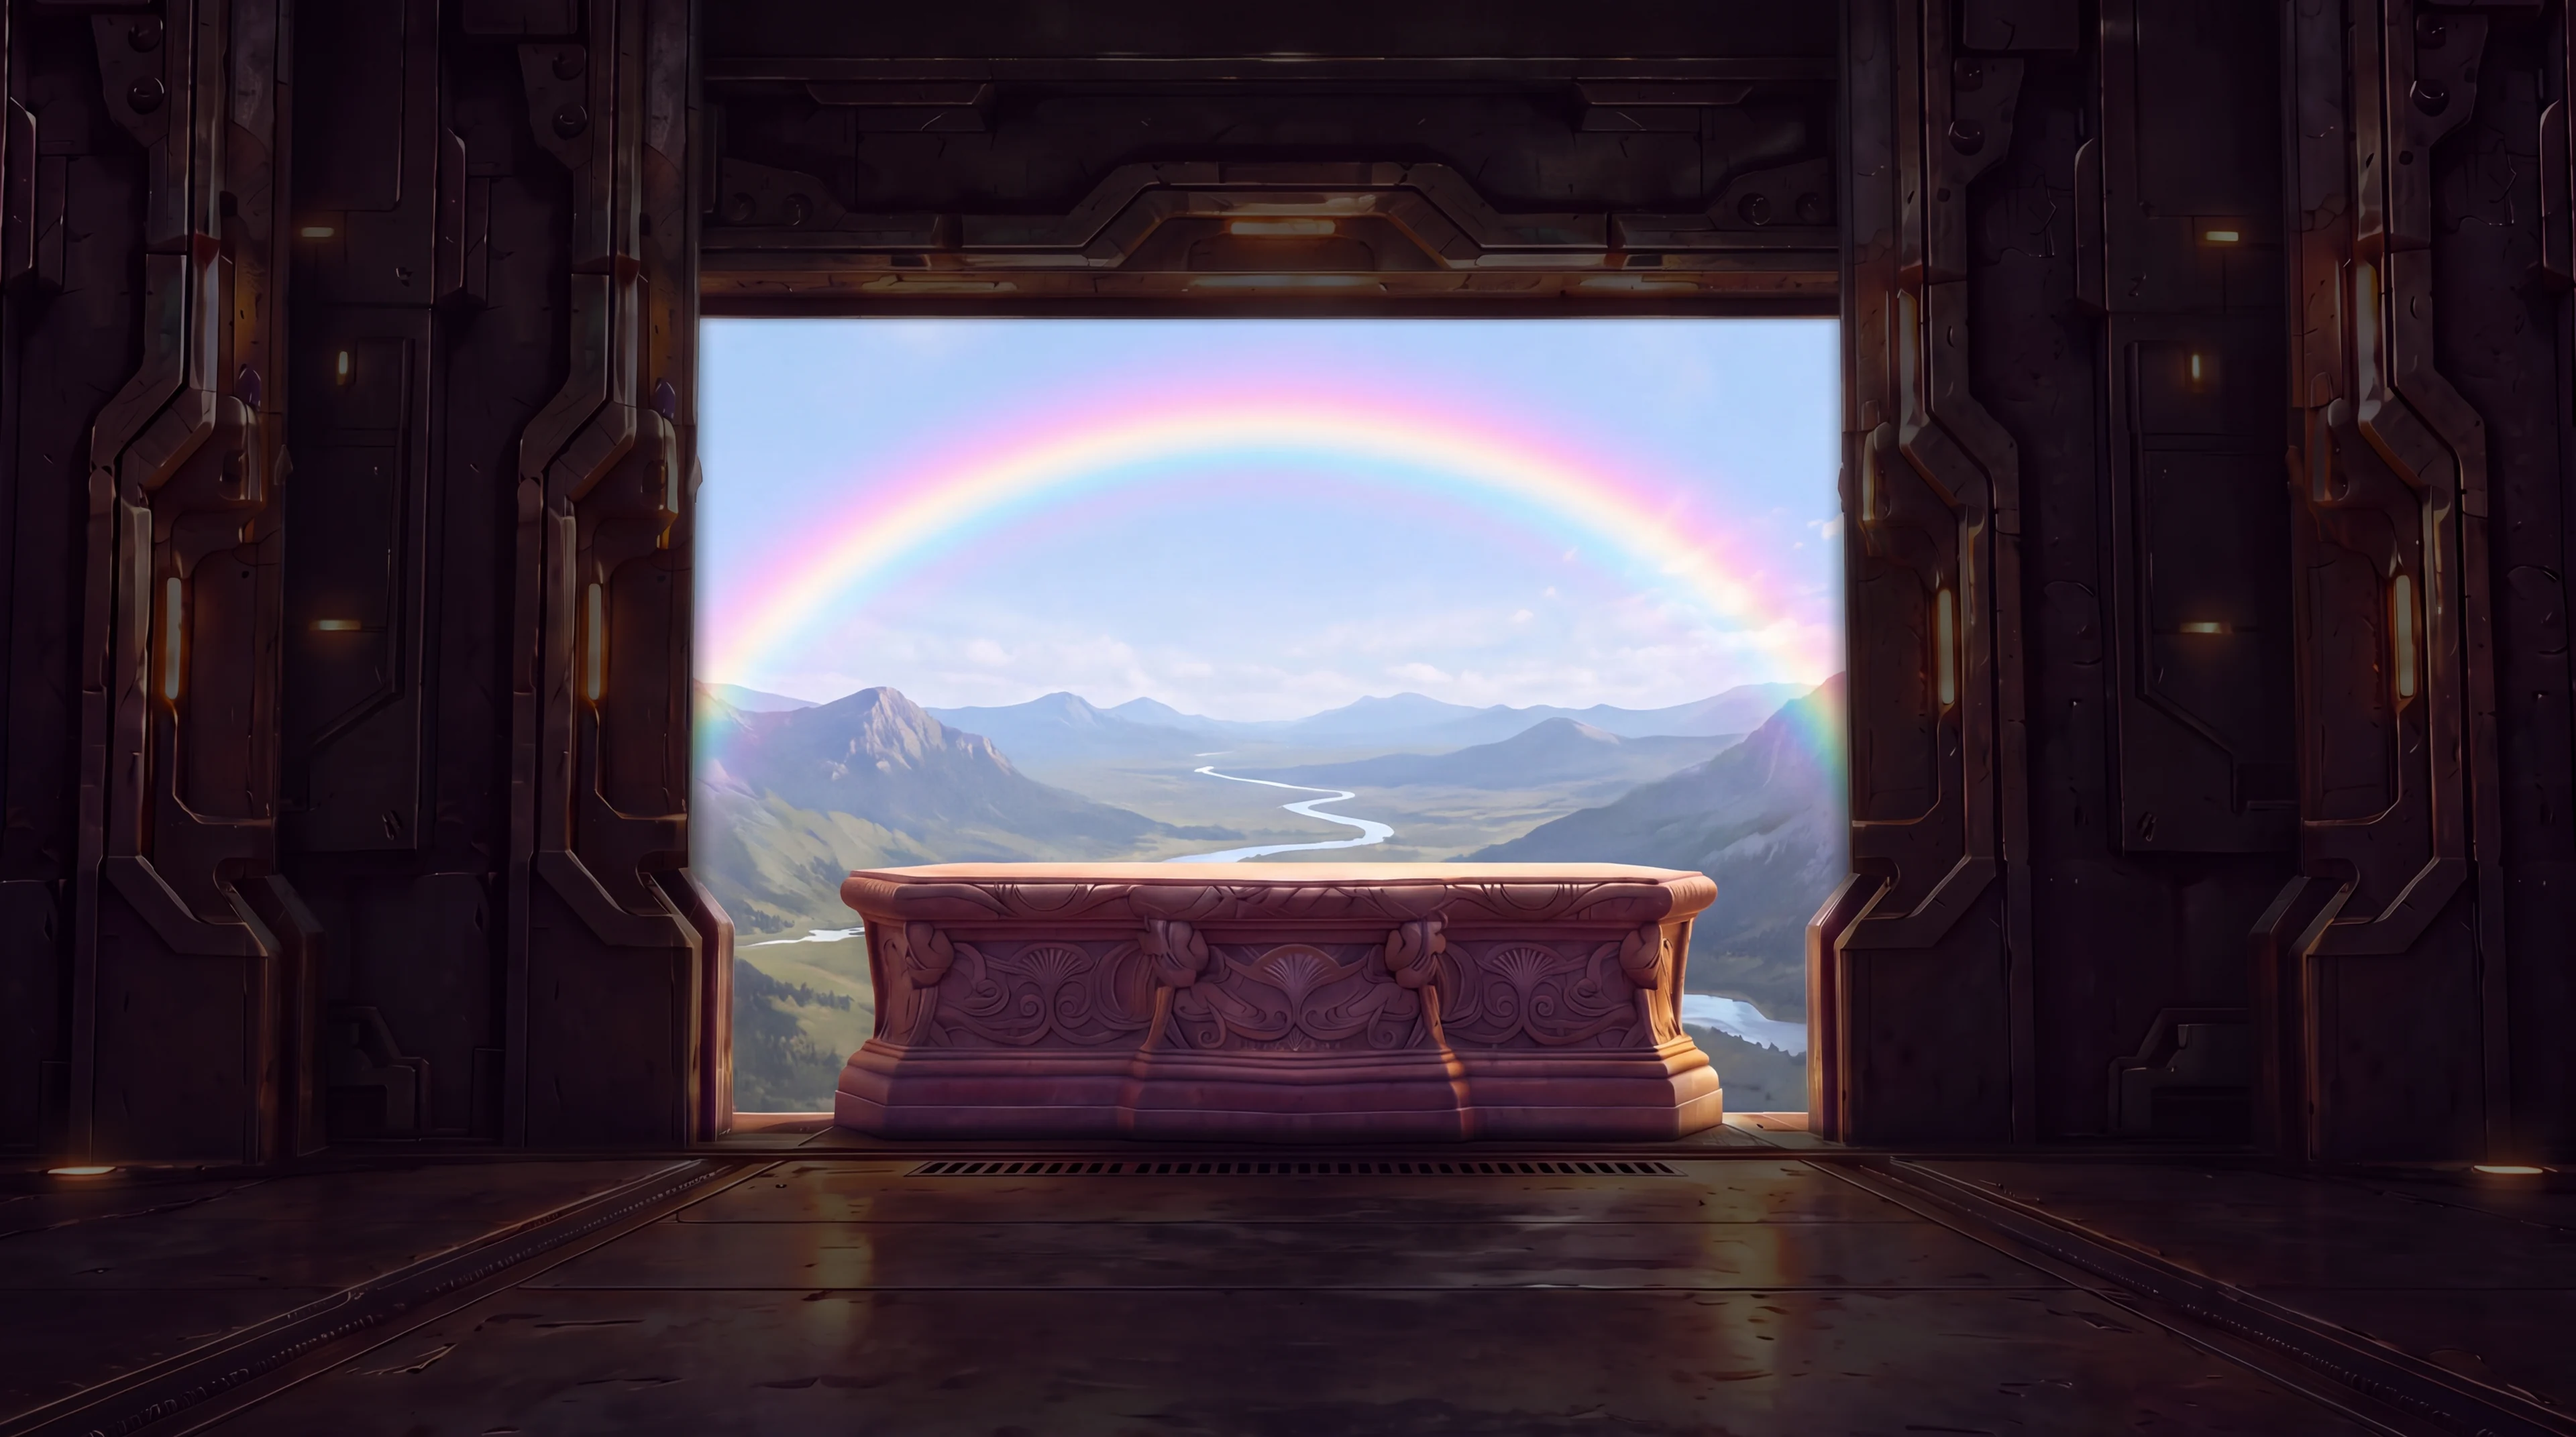
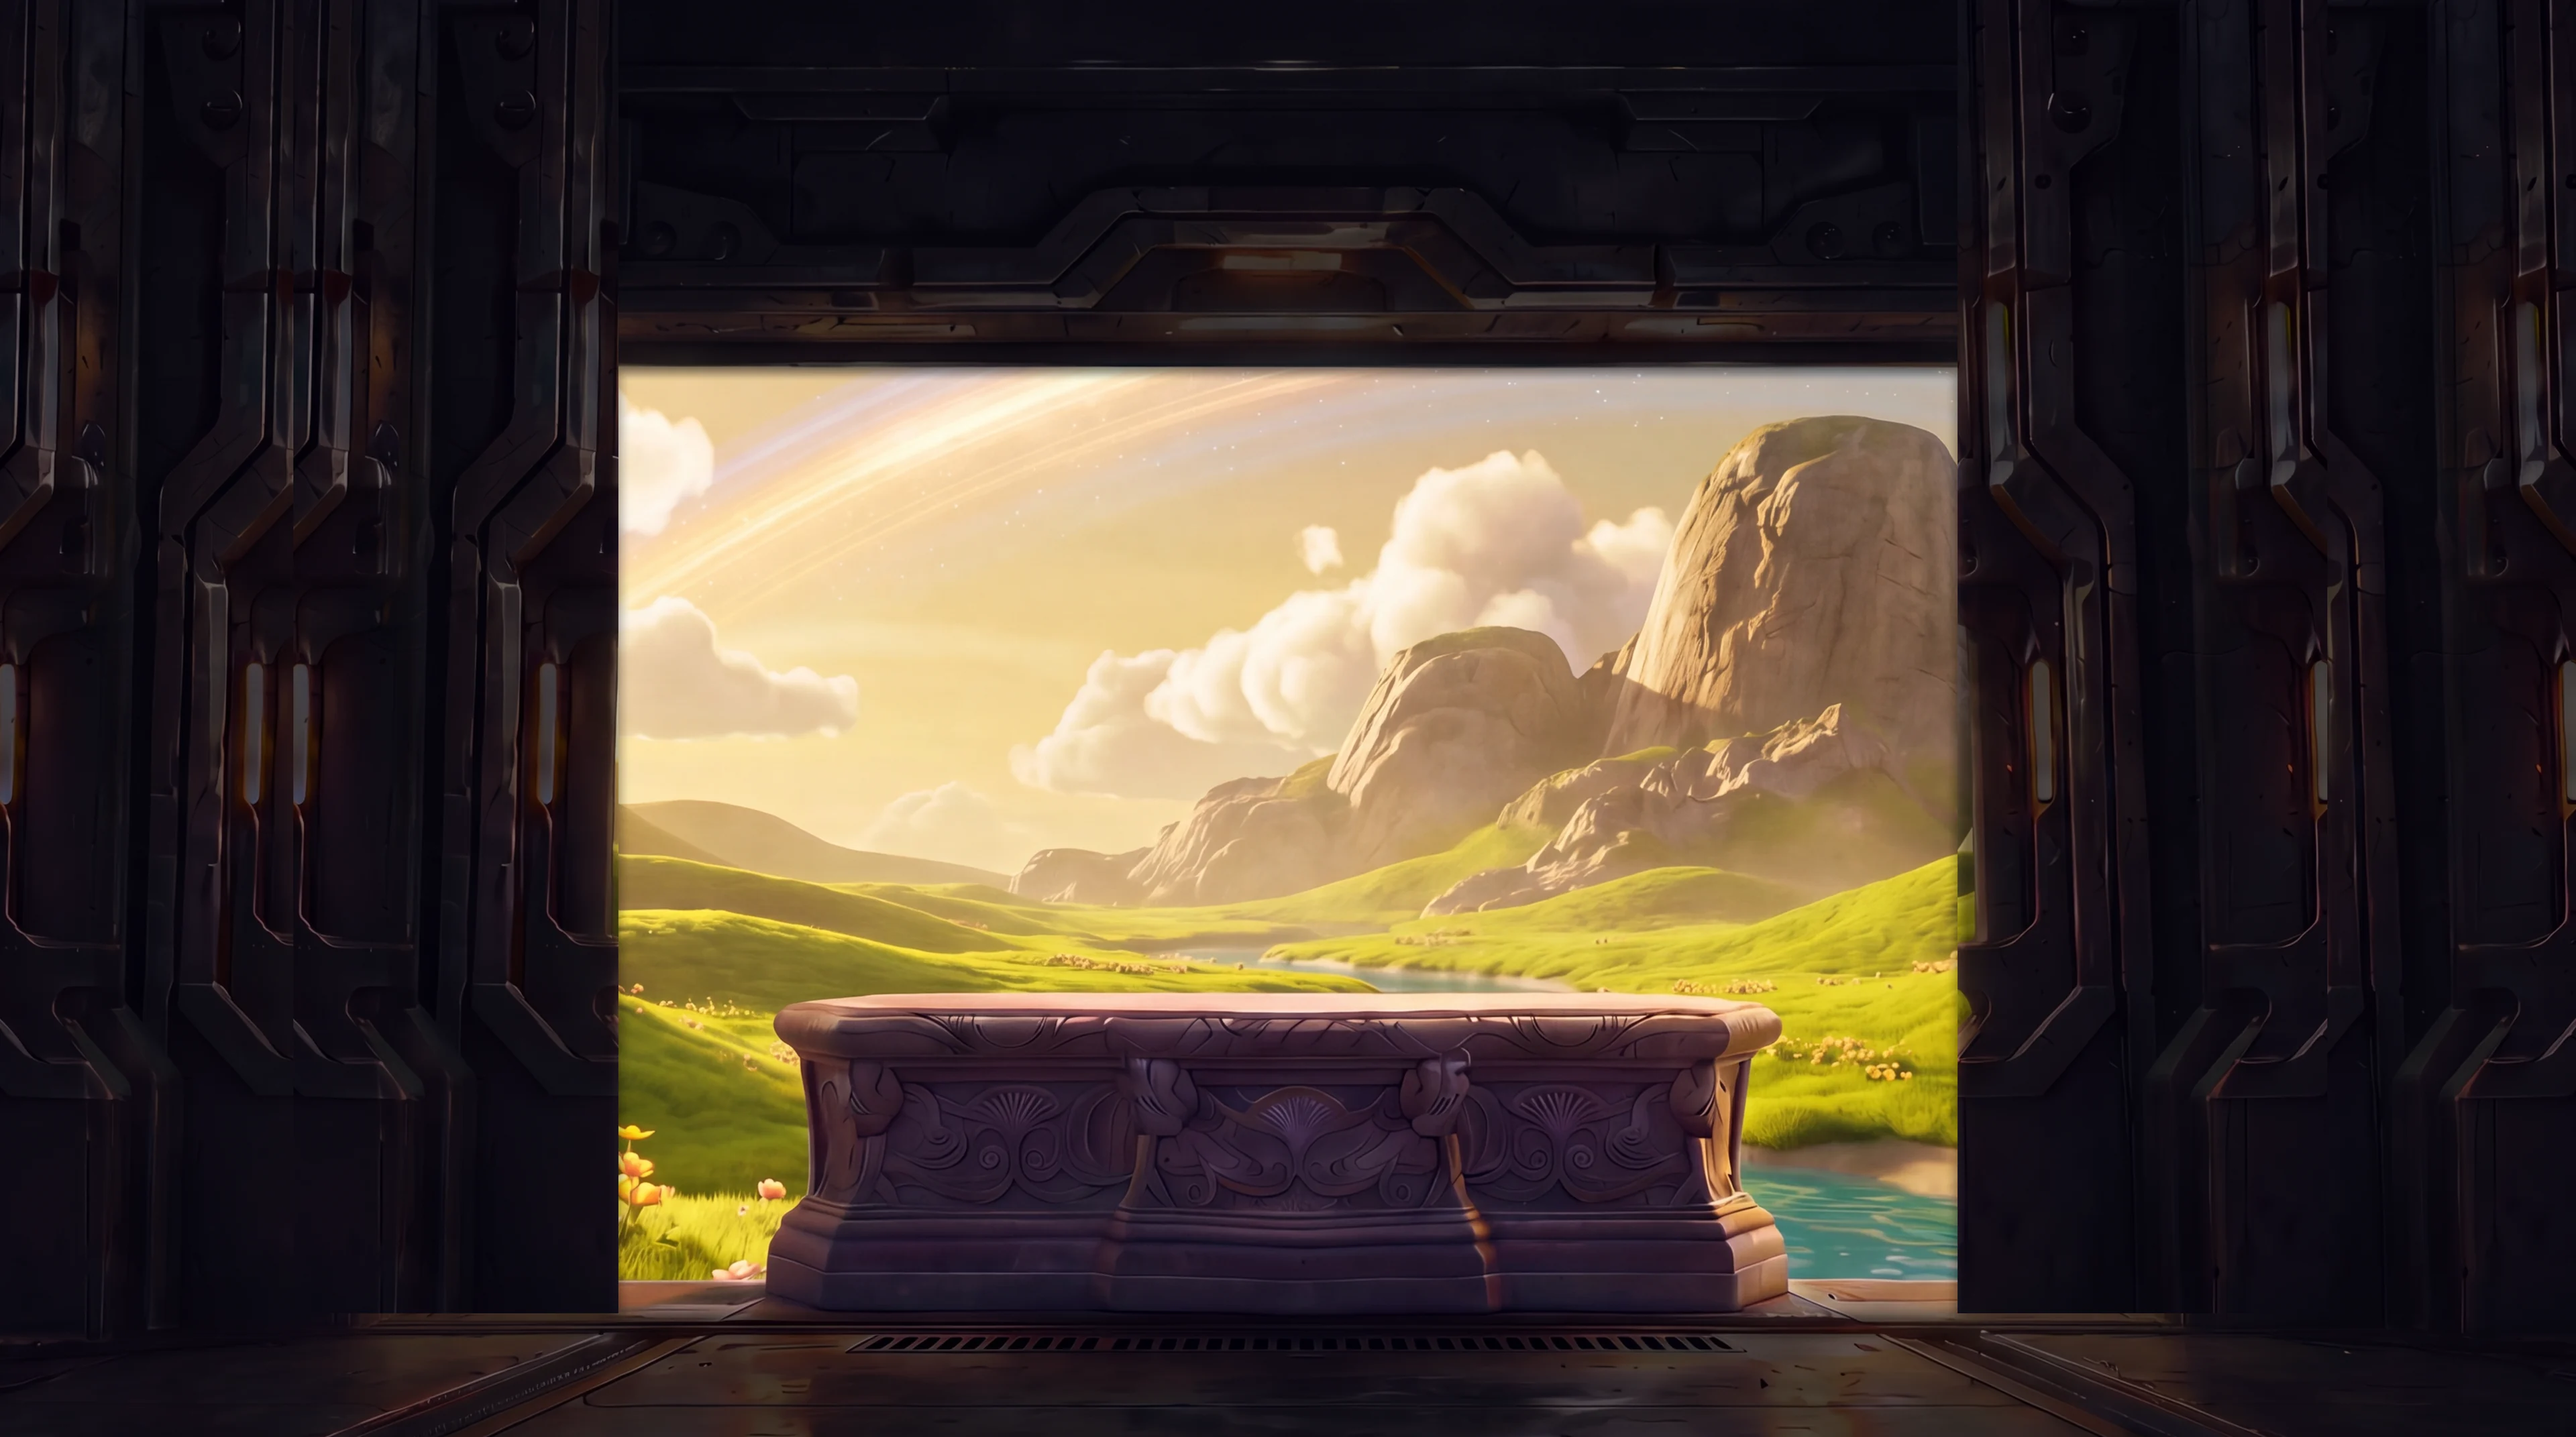
Anuncio del ganador: paisaje dorado, pedestal más abajo y puerta al 24-76%
Paisaje con la estética de la nueva referencia (luz dorada, colinas con
flores, nubes esponjosas). El suelo y el pedestal bajan (parte de arriba
al 70%) para que los datos tapen su frente y se vea más paisaje; la
abertura va del 24% al 76% del ancho.

diff --git a/index.html b/index.html
@@ -133,7 +133,7 @@ body.spinning .pointer-wrap { animation: none; }
 /* Revelación del ganador: superficie Mystery, solo dentro de la columna central */
 /* Anuncio del ganador: fondo de la bóveda abierta al valle en todo el escenario (metal oscuro en los
    lados de los presentadores). Arriba el nombre sobre el cielo, la moto y Gali sobre el pedestal
-   (su parte de arriba está al 61% del alto y su frente queda detrás de los datos de abajo). */
+   (su parte de arriba está al 70% del alto y su frente queda detrás de los datos de abajo). */
 .winner-bg {
   position: absolute; inset: 0; z-index: 4;
   background: url("assets/fondo-ganador.webp") center / cover no-repeat, var(--n00);
@@ -147,13 +147,13 @@ body.spinning .pointer-wrap { animation: none; }
 }
 .winner .overline { color: var(--n09); font-size: 2.2cqh; letter-spacing: .18em; font-weight: 700; text-shadow: 0 .2cqh .5cqh rgba(10,11,12,.8), 0 0 1.6cqh rgba(10,11,12,.6); }
 .winner .gali-king {
-  position: absolute; left: 20.3cqh; bottom: 39.5cqh; height: 25cqh; width: auto;
+  position: absolute; left: 20.3cqh; bottom: 30.4cqh; height: 25cqh; width: auto;
   filter: drop-shadow(0 1.2cqh 1.2cqh rgba(0,0,0,.55));
   animation: king .7s .15s cubic-bezier(.2, 1.5, .4, 1) both;
 }
 @keyframes king { from { transform: translateY(40%) scale(.6); opacity: 0; } }
 .winner .prize-img {
-  position: absolute; left: 32.8cqh; bottom: 39.5cqh; height: 32cqh; width: auto; object-fit: contain;
+  position: absolute; left: 32.8cqh; bottom: 30.4cqh; height: 32cqh; width: auto; object-fit: contain;
   filter: drop-shadow(0 1.2cqh 1.4cqh rgba(0,0,0,.55));
   animation: ride .9s cubic-bezier(.2, 1.15, .3, 1) both;
 }

diff --git a/README.md b/README.md
@@ -64,7 +64,7 @@ Aplican a cualquier cambio, lo haga una persona o una IA.
 3. **Cada casilla mide según los tickets de su dueño.** La flecha debe detenerse dentro de la casilla del ganador. Los nombres se achican para caber en su casilla y no se dibujan si no caben legibles.
 4. **Nunca mostrar el total de tickets en juego.** Ni en pantalla ni en el panel.
 5. **El anuncio del ganador muestra:** la moto, el nombre, la empresa, la sede (Location), los juegos en el mes, el puntaje máximo y los tickets. Cada cifra lleva su ícono glow del Galiverso: flecha circular para los juegos, check para el puntaje y GaliTicket para los tickets. No mostrar el número de sorteo ni la cantidad de participantes.
-   **Composición del anuncio:** el fondo `fondo-ganador.webp` cubre todo el escenario; sus paredes y su suelo de metal son muy oscuros para no iluminar a los presentadores, y la abertura al valle coincide con la columna central. Arriba, sobre el cielo, van el texto de arriba y el nombre; la moto y Gali con corona van parados sobre el pedestal (su parte de arriba está al 61% del alto); abajo van la empresa, la sede, las cifras y los botones, con el frente del pedestal detrás. La abertura al valle va del 27% al 72% del ancho y desde el 22% del alto (debajo del marco del portón), dentro de la columna central: las zonas de los presentadores son pared de metal oscuro. Si se cambia la imagen de fondo, hay que volver a medir esas alturas.
+   **Composición del anuncio:** el fondo `fondo-ganador.webp` cubre todo el escenario; sus paredes y su suelo de metal son muy oscuros para no iluminar a los presentadores, y la abertura al valle coincide con la columna central. Arriba, sobre el cielo, van el texto de arriba y el nombre; la moto y Gali con corona van parados sobre el pedestal (su parte de arriba está al 70% del alto); abajo van la empresa, la sede, las cifras y los botones, con el frente del pedestal detrás. La abertura al valle va del 24% al 76% del ancho y desde el 26% del alto (debajo del marco del portón); el paisaje tiene el estilo dorado y suave de la referencia, dentro de la columna central: las zonas de los presentadores son pared de metal oscuro. Si se cambia la imagen de fondo, hay que volver a medir esas alturas.
 6. **Empresas excluidas por defecto:** Auteco, La Causa y Galilei. Se activan desde el panel.
 7. **Sistema visual de marca Galilei** (definido por el equipo de diseño; no volver al estilo anterior):
    - **Las casillas van solo en los azules de la marca, sin grises ni verdes** (valores exactos de los tokens de Figma): `#ABE3F8` (info-light), `#61BDDF` (info-vivid) y `#17536A` (info-dark). Oscuro y claro se alternan: la mitad de las casillas son `#17536A` y entre cada dos va `#ABE3F8` o `#61BDDF`, turnándose. El aro y los bombillos siguen en neutros. Nombres: `#0A0B0C` sobre los azules claros y `#ABE3F8` sobre el azul oscuro.
